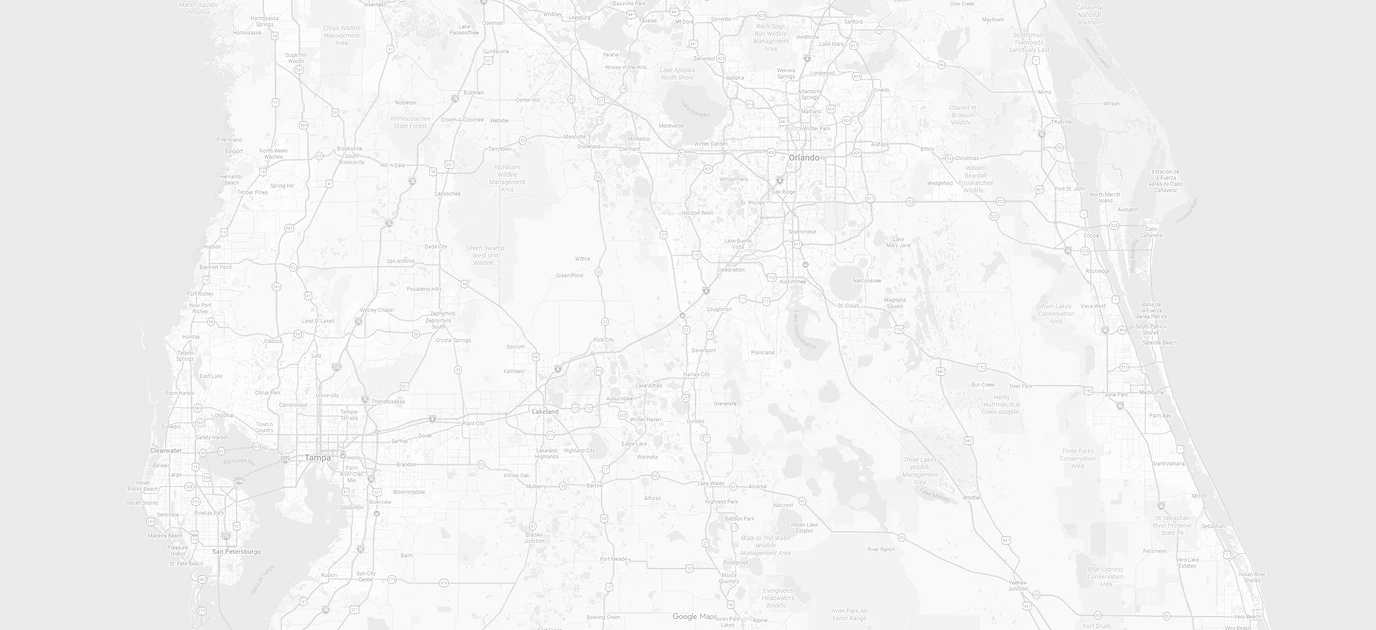
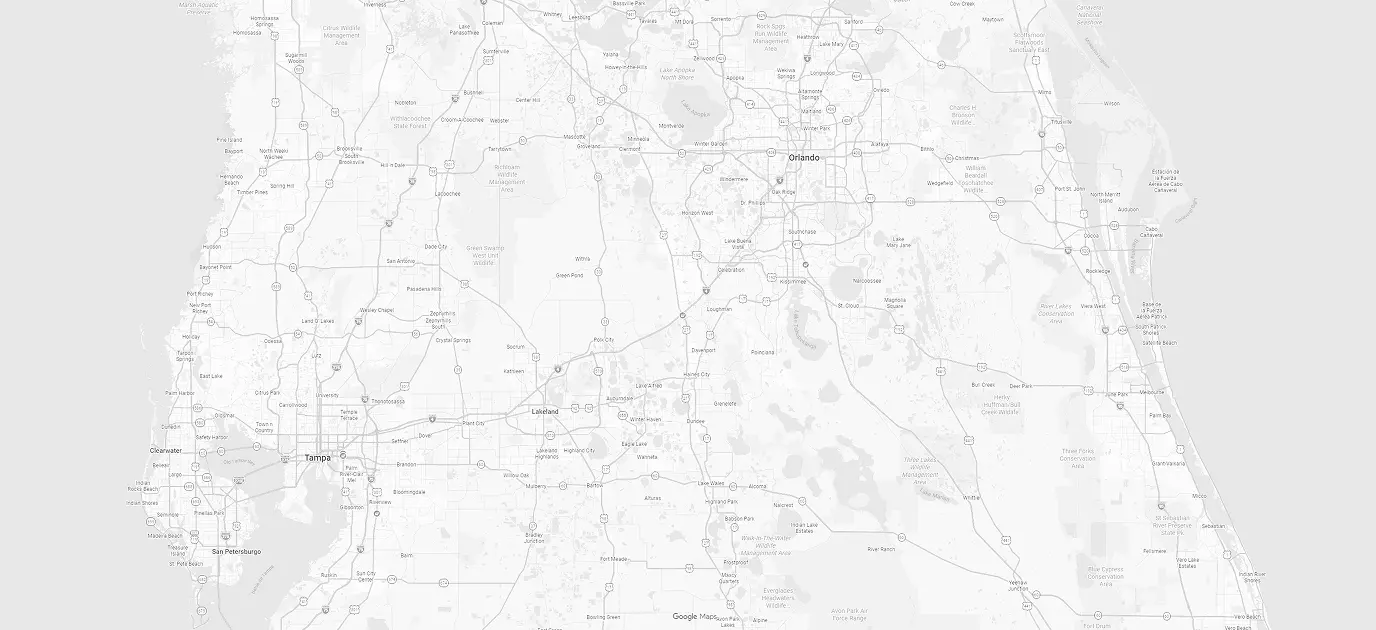
fix:map image

diff --git a/components/sections/locations/MapSection.tsx b/components/sections/locations/MapSection.tsx
@@ -156,7 +156,7 @@ export default function MapSection({ content }: MapSectionProps) {
         <h2 className="title-h2">{content.title}</h2>
       </div>
       <div
-        className="w-full h-auto aspect-1376/630 relative flex justify-center items-end overflow-hidden cursor-grab active:cursor-grabbing"
+        className="w-full h-auto aspect-1376/630 relative flex justify-center items-end overflow-hidden cursor-grab active:cursor-grabbing bg-[#E8E8E8]"
         onMouseDown={handleMouseDown}
         onMouseMove={handleMouseMove}
         onMouseUp={handleMouseUp}